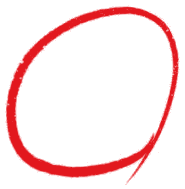
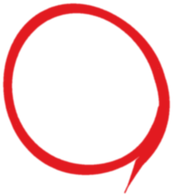
채점 표시를 직접 그린 동그라미·빗금으로 바꾸고 빗금은 문제 왼쪽에
Claude-Session: https://claude.ai/code/session_016V5i2BmJwn9JknmLMJFLKo

Changed region(s): [[0.0, 0.0, 1.0, 1.0]]

diff --git a/css/style.css b/css/style.css
@@ -664,13 +664,14 @@ ol.plain li { margin: 4px 0; }
   pointer-events: none; z-index: 2; display: flex; align-items: center; justify-content: center;
 }
 .mark img { display: block; max-width: 100%; max-height: 100%; user-select: none; }
+.mark.no { left: 30%; }
 .mark.no img { width: 82%; }
-/* 색연필로 쓱 긋는 모습: 동그라미는 한 바퀴 돌며, 빗금은 오른쪽 위에서 왼쪽 아래로 나타나요 */
+/* 색연필로 쓱 긋는 모습: 동그라미는 한 바퀴 돌며, 빗금은 왼쪽 아래에서 오른쪽 위로 그어져요 */
 @property --sweep { syntax: '<angle>'; inherits: false; initial-value: 360deg; }
-.mark.ok img { -webkit-mask: conic-gradient(from 20deg, #000 var(--sweep), transparent 0); mask: conic-gradient(from 20deg, #000 var(--sweep), transparent 0); animation: mark-sweep .5s ease-out both; }
+.mark.ok img { -webkit-mask: conic-gradient(from 120deg, #000 var(--sweep), transparent 0); mask: conic-gradient(from 120deg, #000 var(--sweep), transparent 0); animation: mark-sweep .5s ease-out both; }
 @keyframes mark-sweep { from { --sweep: 0deg; } to { --sweep: 360deg; } }
 .mark.no img { animation: mark-slash .28s ease-out both; }
-@keyframes mark-slash { from { clip-path: inset(0 0 100% 100%); } to { clip-path: inset(0 0 0 0); } }
+@keyframes mark-slash { from { clip-path: inset(100% 100% 0 0); } to { clip-path: inset(0 0 0 0); } }
 @media (prefers-reduced-motion: reduce) { .mark img { animation: none !important; } }
 .explain .answer { font-size: 17px; margin-bottom: 4px; }
 

diff --git a/img/draw_marks.py b/img/draw_marks.py
@@ -1,0 +1,68 @@
+# 색연필(사인펜) 느낌 채점 표시를 직접 그립니다: 동그라미(꼬리 있음), 빗금
+import math, random
+from PIL import Image, ImageDraw, ImageFilter, ImageChops
+S = 4  # 크게 그린 뒤 줄여서 부드럽게
+RED = (226, 26, 32)
+random.seed(7)
+
+def stroke(size, pts, widths):
+    W, H = size
+    m = Image.new('L', (W * S, H * S), 0)
+    d = ImageDraw.Draw(m)
+    for (x, y), w in zip(pts, widths):
+        r = w * S / 2
+        d.ellipse((x * S - r, y * S - r, x * S + r, y * S + r), fill=255)
+    m = m.filter(ImageFilter.GaussianBlur(S * 0.6))
+    # 펜 결: 가는 잡티로 군데군데 옅게
+    n = Image.effect_noise((W * S, H * S), 60).filter(ImageFilter.GaussianBlur(1.2))
+    n = n.point(lambda v: 255 if v > 80 else int(110 + v))
+    m = ImageChops.multiply(m, n)
+    m = m.resize((W, H), Image.LANCZOS)
+    out = Image.new('RGBA', (W, H), RED + (0,))
+    out.putalpha(m)
+    return out.crop(out.getbbox())
+
+def circle():
+    cx, cy, rx, ry, tilt = 104, 100, 74, 84, math.radians(-18)
+    pts, ws = [], []
+    a0, sweep, N = math.radians(28), math.radians(400), 900
+    def at(a, t):
+        wob = 1 + 0.03 * math.sin(2 * a + 0.8) + 0.015 * math.sin(3 * a) + 0.11 * max(0, t - 0.85) / 0.15
+        ex, ey = rx * wob * math.cos(a), ry * wob * math.sin(a)
+        return cx + ex * math.cos(tilt) - ey * math.sin(tilt), cy + ex * math.sin(tilt) + ey * math.cos(tilt)
+    for i in range(N + 1):
+        t = i / N
+        a = a0 + sweep * t
+        x, y = at(a, t)
+        w = 9.5 * (1 + 0.12 * math.sin(3 * a + 1))
+        if t < 0.04: w *= 0.7 + 0.3 * t / 0.04
+        pts.append((x, y)); ws.append(w)
+    # 끝에서 바깥쪽으로 살짝 삐져나가는 꼬리
+    (x1, y1), (x0, y0) = pts[-1], pts[-6]
+    dx, dy = x1 - x0, y1 - y0
+    L = math.hypot(dx, dy); dx, dy = dx / L, dy / L
+    rot = math.radians(-20)
+    dx, dy = dx * math.cos(rot) - dy * math.sin(rot), dx * math.sin(rot) + dy * math.cos(rot)
+    w0 = ws[-1]
+    for i in range(1, 120):
+        t = i / 120
+        pts.append((x1 + dx * 34 * t, y1 + dy * 34 * t)); ws.append(max(1.0, w0 * (1 - t) ** 1.3))
+    return stroke((230, 230), pts, ws)
+
+def slash():
+    p0, c, p1 = (22, 128), (70, 92), (150, 18)
+    pts, ws = [], []
+    N = 500
+    for i in range(N + 1):
+        t = i / N
+        x = (1 - t) ** 2 * p0[0] + 2 * (1 - t) * t * c[0] + t * t * p1[0]
+        y = (1 - t) ** 2 * p0[1] + 2 * (1 - t) * t * c[1] + t * t * p1[1]
+        w = 12 * (1 - t) ** 0.7 + 1.2
+        if t < 0.03: w *= 0.85
+        pts.append((x, y)); ws.append(w)
+    return stroke((175, 150), pts, ws)
+
+import sys
+d = sys.argv[1]
+circle().save(f'{d}/mark-ok.png', optimize=True)
+slash().save(f'{d}/mark-no.png', optimize=True)

diff --git a/README.md b/README.md
@@ -84,7 +84,7 @@ service cloud.firestore {
 
 ## 채점
 
-- 확인하기·추론하기·복습 문제는 시험지처럼 문제 위에 빨간 색연필 동그라미(맞음)나 빗금(틀림) 그림(img/mark-ok.png, img/mark-no.png)으로 채점 표시를 하고, 정답과 해설은 그 아래에 보여 줘요.
+- 확인하기·추론하기·복습 문제는 시험지처럼 문제 위에 빨간 색연필 동그라미(맞음)나 빗금(틀림) 그림(img/mark-ok.png, img/mark-no.png — img/draw_marks.py로 직접 그림, 빗금은 문제 왼쪽)으로 채점 표시를 하고, 정답과 해설은 그 아래에 보여 줘요.
 
 - 음은 두음 법칙(력→역, 녀→여 등)을 인정합니다.
 - 뜻은 기본형(배울 → 배우다, 곧을 → 곧다)도 인정합니다.
